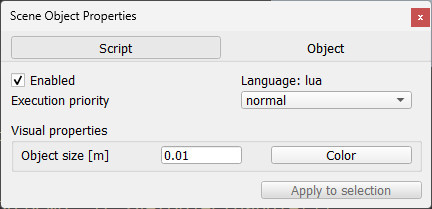
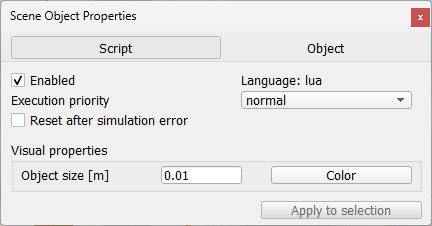
mujoco V3.2.6, change in simGetStackTableInfo

diff --git a/en/simMujoco.htm b/en/simMujoco.htm
@@ -26,14 +26,62 @@ td.section { margin: 0; padding: 0; }
 <tr><td id="info" class="section"><p class="warningBox">API functions that mainly serve to inject MuJoCo XML code</p></td></tr>
 
 <tr><td id="alphabetical" class="section"><pre class="apiList">
+<a href="?#simMujoco.addFlexcomp">simMujoco.addFlexcomp</a>
 <a href="?#simMujoco.composite">simMujoco.composite</a>
 <a href="?#simMujoco.getCompositeInfo">simMujoco.getCompositeInfo</a>
-<a href="?#simMujoco.injectXML">simMujoco.injectXML</a>
-<a href="?#simMujoco.removeXML">simMujoco.removeXML</a>
+<a href="?#simMujoco.getFlexcompInfo">simMujoco.getFlexcompInfo</a>
+<a href="?#simMujoco.geInfo">simMujoco.getInfo</a>
+<a href="?#simMujoco.addInjection">simMujoco.addInjection</a>
+<a href="?#simMujoco.removeInjection">simMujoco.removeInjection</a>
 </pre></td></tr>
 
 
 <tr><td id="commands" class="section">
+
+<p class="subsectionBar">
+<a name="simMujoco.addFlexcomp" id="simMujoco.addFlexcomp"></a>simMujoco.addFlexcomp</p>
+<table class="apiTable">
+<tr class="apiTableTr">
+<td class="apiTableLeftDescr">Description</td>
+<td class="apiTableRightDescr">Adds or injects a flexcomp to the MuJoCo world</td>
+</tr>
+<tr class="apiTableTr">
+<td class="apiTableLeftLSyn">Lua synopsis</td>
+<td class="apiTableRightLSyn">int injectionId=simMujoco.addFlexcomp(map info)</td>
+</tr>
+<tr class="apiTableTr">
+<td class="apiTableLeftLParam">Lua arguments</td>
+<td class="apiTableRightLParam">
+<div><strong>info</strong>: an information field that contains:</div>
+<div class=tab><strong>element</strong>: the name of the XML element where the flexcomp XML code should be injected. Can be empty if shapeHandle is not empty</div>
+<div class=tab><strong>shapeHandle</strong>: the handle of the shape where the flexcomp XML code should be injected. Can be empty if element is not empty</div>
+<div class=tab><strong>name</strong>: the flexcomp name element. Make sure the name is unique, and possibly derived from the related shape</div>
+<div class=tab><strong>type</strong>: the flexcomp type element. Only grid is currently supported</div>
+<div class=tab><strong>count</strong>: the flexcomp count element</div>
+<div class=tab><strong>spacing</strong>: the flexcomp spacing element</div>
+<div class=tab><strong>radius</strong>: the flexcomp radius element</div>
+<div class=tab><strong>mass</strong>: the flexcomp mass element</div>
+<div class=tab><strong>pose</strong>: the flexcomp pose element</div>
+<div class=tab><strong>pin</strong>: the flexcomp pin element (array of indices)</div>
+<div class=tab><strong>extraFlexcompXml</strong>: additional xml code to be added to the flexcomp element (as attribute)</div>
+<div class=tab><strong>extraXml</strong>: additional xml code to be added as a flexcomp element node</div>
+<div class=tab><strong>callback</strong>: a callback function that is called when the MuJoCo world gets regenerated. This allows to adjust the flexcomp on-the-fly</div>
+</td>
+</tr>
+<tr class="apiTableTr">
+<td class="apiTableLeftLRet">Lua return values</td>
+<td class="apiTableRightLRet"><div><strong>injectionId</strong>: the id of the injection</div></td>
+</tr>
+
+<tr class="apiTableTr">
+<td class="apiTableLeftPSyn">Python synopsis</td>
+<td class="apiTableRightPSyn">int injectionId=simMujoco.addFlexcomp(dict info)</td>
+</tr>
+</table>
+<br>
+
+
+
 <p class="subsectionBar">
 <a name="simMujoco.composite" id="simMujoco.composite"></a>simMujoco.composite</p>
 <table class="apiTable">
@@ -50,10 +98,10 @@ td.section { margin: 0; padding: 0; }
 <td class="apiTableRightLParam">
 <div><strong>xml</strong>: the xml code corresponding to a composite object</div>
 <div><strong>info</strong>: additional information about the composite:</div>
-<div class=tab><strong>element</strong>: the name of the XML element where the composite XML should be injected. Can be empty if shapeHandle is not empty</div>
-<div class=tab><strong>shapeHandle</strong>: the handle of the shape where the composite XML should be injected. Can be empty if element is not empty</div>
-<div class=tab><strong>prefix</strong>: the composite prefix string. Make sure the prefix is unique, and possible derived from the related shape</div>
-<div class=tab><strong>type</strong>: the composite type: grid, rope, loop, cloth, box, cylinder or ellipsoid</div>
+<div class=tab><strong>element</strong>: the name of the XML element where the composite XML code should be injected. Can be empty if shapeHandle is not empty</div>
+<div class=tab><strong>shapeHandle</strong>: the handle of the shape where the composite XML code should be injected. Can be empty if element is not empty</div>
+<div class=tab><strong>prefix</strong>: the composite prefix string. Make sure the prefix is unique, and possibly derived from the related shape</div>
+<div class=tab><strong>type</strong>: the composite type. In newest Mujoco version only grid, and cable are supported types</div>
 <div class=tab><strong>count</strong>: the size of the composite</div>
 <div class=tab><strong>respondableMask</strong>: the composite respondable mask</div>
 <div class=tab><strong>grow</strong>: the amount the composite nodes should grow for visuals</div>
@@ -71,6 +119,9 @@ td.section { margin: 0; padding: 0; }
 </tr>
 </table>
 <br>
+
+
+
 
 <p class="subsectionBar">
 <a name="simMujoco.getCompositeInfo" id="simMujoco.getCompositeInfo"></a>simMujoco.getCompositeInfo</p>
@@ -108,24 +159,96 @@ td.section { margin: 0; padding: 0; }
 </table>
 <br>
 
+
+
 <p class="subsectionBar">
-<a name="simMujoco.injectXML" id="simMujoco.injectXML"></a>simMujoco.injectXML</p>
+<a name="simMujoco.getCompositeInfo" id="simMujoco.getCompositeInfo"></a>simMujoco.getFlexcompInfo</p>
 <table class="apiTable">
 <tr class="apiTableTr">
 <td class="apiTableLeftDescr">Description</td>
-<td class="apiTableRightDescr">Adds or injects XML data into a MuJoCo world</td>
+<td class="apiTableRightDescr">Retrieves data about a flexcomp</td>
 </tr>
 <tr class="apiTableTr">
 <td class="apiTableLeftLSyn">Lua synopsis</td>
-<td class="apiTableRightLSyn">int injectionId=simMujoco.injectXML(string xml,string element/int shapeHandle,map info=nil)</td>
+<td class="apiTableRightLSyn">map info=simMujoco.getFlexcompInfo(int injectionId,int what)</td>
 </tr>
 <tr class="apiTableTr">
 <td class="apiTableLeftLParam">Lua arguments</td>
 <td class="apiTableRightLParam">
-<div><strong>xml</strong>: the xml code to inject</div>
-<div><strong>element/shapeHandle</strong>: the name of the XML element or the handle of the shape where the XML code should be injected</div>
-<div><strong>info</strong>: additional information about the XML code:</div>
-<div class=tab><strong>callback</strong>: a callback function that is called when the MuJoCo world gets regenerated. This allows to adjust the XML code on-the-fly</div>
+<div><strong>injectionId</strong>: the injection ID returned by simMujoco.addFlexcomp</div>
+<div><strong>what</strong>: the type of requested data:</div>
+<div class=tab><strong>0</strong>: the positions of the flexcomp nodes</div>
+<div class=tab><strong>1</strong>: the triangles to render the flexcomp</div>
+</td>
+</tr>
+<tr class="apiTableTr">
+<td class="apiTableLeftLRet">Lua return values</td>
+<td class="apiTableRightLRet">
+<div><strong>info</strong>: the requested data</div>
+</td>
+</tr>
+
+<tr class="apiTableTr">
+<td class="apiTableLeftPSyn">Python synopsis</td>
+<td class="apiTableRightPSyn">dict info=simMujoco.getCompositeInfo(int injectionId,int what)</td>
+</tr>
+</table>
+<br>
+
+
+
+<p class="subsectionBar">
+<a name="simMujoco.getInfo" id="simMujoco.getInfo"></a>simMujoco.getInfo</p>
+<table class="apiTable">
+<tr class="apiTableTr">
+<td class="apiTableLeftDescr">Description</td>
+<td class="apiTableRightDescr">Retrieves general information</td>
+</tr>
+<tr class="apiTableTr">
+<td class="apiTableLeftLSyn">Lua synopsis</td>
+<td class="apiTableRightLSyn">string info=simMujoco.getInfo(string what)</td>
+</tr>
+<tr class="apiTableTr">
+<td class="apiTableLeftLParam">Lua arguments</td>
+<td class="apiTableRightLParam">
+<div><strong>what</strong>: the information type. Currently only 'nameAndIds' is supported</div>
+</td>
+</tr>
+<tr class="apiTableTr">
+<td class="apiTableLeftLRet">Lua return values</td>
+<td class="apiTableRightLRet">
+<div><strong>info</strong>: the requested information</div>
+</td>
+</tr>
+
+<tr class="apiTableTr">
+<td class="apiTableLeftPSyn">Python synopsis</td>
+<td class="apiTableRightPSyn">string info=simMujoco.getInfo(string what)</td>
+</tr>
+</table>
+<br>
+
+
+
+<p class="subsectionBar">
+<a name="simMujoco.addInjection" id="simMujoco.addInjection"></a><a name="simMujoco.injectXML" id="simMujoco.injectXML"></a>simMujoco.addInjection</p>
+<table class="apiTable">
+<tr class="apiTableTr">
+<td class="apiTableLeftDescr">Description</td>
+<td class="apiTableRightDescr">Adds or injects XML code into a MuJoCo world</td>
+</tr>
+<tr class="apiTableTr">
+<td class="apiTableLeftLSyn">Lua synopsis</td>
+<td class="apiTableRightLSyn">int injectionId=simMujoco.addInjection(map info)</td>
+</tr>
+<tr class="apiTableTr">
+<td class="apiTableLeftLParam">Lua arguments</td>
+<td class="apiTableRightLParam">
+<div><strong>info</strong>: information field containing:</div>
+<div class=tab><strong>shapeHandle</strong>: the handle of the shape where the XML code should be injected. Can be empty if element is not empty</div>
+<div class=tab><strong>element</strong>: the name of the XML element where the XML code should be injected. Can be empty if shapeHandle is not empty</div>
+<div class=tab><strong>xml</strong>: the XML code to inject</div>
+<div class=tab><strong>callback</strong>: a callback function that is called when the MuJoCo world gets regenerated. This allows to adjust the xml code on-the-fly, if needed</div>
 </td>
 </tr>
 <tr class="apiTableTr">
@@ -137,27 +260,27 @@ td.section { margin: 0; padding: 0; }
 
 <tr class="apiTableTr">
 <td class="apiTableLeftPSyn">Python synopsis</td>
-<td class="apiTableRightPSyn">int injectionId=simMujoco.injectXML(string xml,string element/int shapeHandle,dict info=None)</td>
+<td class="apiTableRightPSyn">int injectionId=simMujoco.addInjection(dict info)</td>
 </tr>
 
 </table>
 <br>
 
 <p class="subsectionBar">
-<a name="simMujoco.removeXML" id="simMujoco.removeXML"></a>simMujoco.removeXML</p>
+<a name="simMujoco.removeInjection" id="simMujoco.removeInjection"></a><a name="simMujoco.removeXML" id="simMujoco.removeXML"></a>simMujoco.removeInjection</p>
 <table class="apiTable">
 <tr class="apiTableTr">
 <td class="apiTableLeftDescr">Description</td>
-<td class="apiTableRightDescr">Removes XML data from the MuJoCo world</td>
+<td class="apiTableRightDescr">Removes XML code from the MuJoCo world</td>
 </tr>
 <tr class="apiTableTr">
 <td class="apiTableLeftLSyn">Lua synopsis</td>
-<td class="apiTableRightLSyn">simMujoco.removeXML(int injectionId)</td>
+<td class="apiTableRightLSyn">simMujoco.removeInjection(int injectionId)</td>
 </tr>
 <tr class="apiTableTr">
 <td class="apiTableLeftLParam">Lua arguments</td>
 <td class="apiTableRightLParam">
-<div><strong>injectionId</strong>: the injection ID returned by simMujoco.composite or simMujoco.injectXML</div>
+<div><strong>injectionId</strong>: the injection ID returned by simMujoco.addFlexcomp, simMujoco.composite, or simMujoco.addInjection</div>
 </td>
 </tr>
 <tr class="apiTableTr">
@@ -168,7 +291,7 @@ td.section { margin: 0; padding: 0; }
 
 <tr class="apiTableTr">
 <td class="apiTableLeftPSyn">Python synopsis</td>
-<td class="apiTableRightPSyn">simMujoco.removeXML(int injectionId)</td>
+<td class="apiTableRightPSyn">simMujoco.removeInjection(int injectionId)</td>
 </tr>
 </tr>
 </table>

diff --git a/en/acknowledgments.htm b/en/acknowledgments.htm
@@ -146,7 +146,7 @@ Eric Rohmer who is a thorough CoppeliaSim tester and an &quot;idea machine&quot;
 <li>Marcin Konarski, Salvatore Sanfilippo, Pieter Noordhuis for the <a href="https://github.com/AmokHuginnsson/replxx/" target="_blank">Replxx</a> library, used in the headless version of the <a href="commandLine.htm#commander">commander plugin</a>. <a href="#replxx">See the license</a>.</li>
 <li>Benjamin Navarro, for his code in the legacy remote API, which enables shared memory communication instead of socket communication.</li>
 
-<li>Following people for noticing bugs, reporting problems, suggesting solutions or new ideas, providing patches, code improvements, or simply helping out: Guillermo Presti, Matthias Fueller, Paul Fudal, Matthieu Lapeyre, Alberto Fanjul, Laurens Philippo, Vadim Liventsev, Kirill Makukhin, Patrick Bouffard, Pouya Mohammadi, Luca Marchionni, Barrett Ames, Arnaud Leleve, Geerten Doornenbal, Nikolaus Wittenstein, Ayberk Ozgur, Qi Wang, Giordano, Karl Robillard, Brian Yeomans, Kiyoshi Irie, Ulrich Schwesinger, Peter Mačička, Inkyu Sa, David Butterworth, Marco Cognetti, Xinyu Zhang, Jaqueline Gallardo, Serkan ÇİÇEK, Taehoon Koo, He Tao, Yusuke Ishizawa, Billy Newman, Rüdiger Dehmel, Roberto Marino, Renaud Detry, Roband, Hendrik Wiese, Matthias Schindler, George Moustris, Marco Bellaccini, Klaus Raizer, Paulo Gurgel, Stéphane Magnenat, Philipp Krüsi, Pascal Gohl, Gianpaolo Gonnelli, Felix Herrmann, Edgar Virga, Josep Tormo Costa, Gaël Ecorchard, Massimo Cefalo, Robert Lang, Marc Durvaux, Alexander Rietzler, Matt Derry, Arne Hitzmann, Sergi Foix, Daniel Morberg, Andreas Kuhner, Gerold Huber, Danilo Vasconcellos Vargas, Spencer Krause, Daniel Kuhner, Filip Jares, Luigi Ferri, Michaela Richter, Daniel Lechner, Sven Knüppel, Steve Nguyen, Jonas Sperling, Roberto Guzman, James Besancon, Andrew Vardy, Bipeen Acharya, Fred Gisa, Simon D. Levy, Leopoldo Armesto, Rodrigo Moreno Garcia, Hanna Kurniawati, Dimitri Klimenko, Joshua Mun Song,  Vinay Yadav, Thomas Estier, Matthias Imle, Rosé Rosado, Soner Ulun, Reza Mahjourian, Ben Allan, Riccardo Spica,  Giovanni Claudio, Guenter Schreiber, Antoine Rennuit, Francois Conti, Sébastien Granges, Patrick Helmer, Eva Alves Costa, Lucian Cucu, Sigurd Villumsen, Andrea Censi, Pierre Rouanet, Leander Hille, Christoph Hügle, William Harrison, Scott Drew Pendleton, Jan Dentler, Raimund Krenmüller, Anuraj Rajendraprakash, Ilya Nemihin, Ángel Luis Jiménez García, Leander Hille, Pierre Rouanet, Kenichi Hara, Ilya Nemihin, Federico Ferri, Michael Michalik, Martin Pecka, Nicola Piccinelli, Kshitij Tiwari, Victor Gomez, Parker Owan, Yuki Suga, Muhammad Umer Huzaifa, Marshall Floyd, Augusto Gandia, Pierre Jacquot, Gurvan Le Bleis, Andreu Vidal, Nicola Di Pol, Tobias Groll, Wu Xiaojun, Karol Mocniak, Ana Lucia, Ricardo Azambuja, Anto Ronson, Graeme Neff Wilson, Minson Lee, Tiago Malheiro, Andrew Hundt, Ahmed Yacine, Matthias Ploner, Indranil Sur, Sung Kyun Kim, Rik Timmers, Matthew Veres, Korolyov Alexei, Daniel Angelov, Mohammed Talha, Bartolomeo Della Corte, Scott Hissam, Mark Fink, Hao Wang, Matias Nitsche, Ndivhuwo Makondo, Yu Zhang, DeKita G. Moon, Paul Santiago Tumbaco Casa, Tobias Benz, Rodrigo Moreno Garcia, Arjun Narayanan, Sven Schweigler, Nicola Battilani, Mark Edmonds,  Benno Timmermann, Cándido Otero Moreira, Justin Yim, Allen Zhu, Leo Koppel, Ravi Prakash Joshi, Sina Radmard, Sai Vemprala, Waleed El-Badry, James Barger, Gonzalo Casas, Metehan Doyran, Arif Rahman, Jason Cachrane, Steffen Hemer, Fangyi Zhang, Filipe Rocha, virgile Daugé, Riccardo Spica, Florian Golemo, Kevin M. Lynch, Frank C. Park, Jacob Huesman, Matthew Veres, Cándido Otero, Leon Masopust, Michael Tong, Zhengxing Yang, Thomas Gurriet, Lenka Pitonakova, Hervé Frezza-Buet, Justus Rijke, Stefan Müller, Julien Lechalupe, Tristan Gahler, Robert Peck, William Jones, Benjamin Erdemann, Boris Bogaerts, Ulrich Viereck, Amdrei Florea, Catalin Buiu, Joachim Haensel, Julian Mayer, Jacob Smith, Mohsen Moradi Dalvand, Simon Birrell, Mathias Thor, Jedrzej Orbik, Liu Dong, Mark Hartenstein, Alexander Oliva, Claudio Gaz, Simon Birrell, Sahil Sharma, Adrian Schoisengeier, Rémi Lux, Kilian Freitag, Maël Hörz, Jakub Turaj, Rieky Barady, Jian Ye, Jaime Boal, Pável Axel Mc Campos Peña, Patrick Gruener, Thomas Wilmotte, Lorenzo Romanini, Johan Relefors, Pablo Bustos, Sonny Tarbouriech, Aleksander Sil, Arturs Paugurs, Wei Wei, David Page, Leopoldo Armesto, Ayush Patel, Cameron Kabacinski, Francisco Marin, Kevin Thomas, Nikita Aigner, Charles Han, Shai Levy, Bobovsky Zdenko, Salvatore Sessa, Jakob Ambsdorf, Hayato Amaike, Nathan Kocherhans, Alex Wuqi Zhang, René Simon, Yongdong Wang, Andrés Faíña, Davide Scorza, Jovan Sumarac, Alexander Oliva, Luigi Ascione, Rui Li, Patrick Grüner, Andrés Faíña, Michal Mareš, Kat Styles Wood, David Paulius, Pranav A. Bhounsule, Davide Scorza, Amirhossein Afkhami Ardekani, Roman Horshkov, Volker Kühn, Artem Shishkin, Andrey Voronkov, Vitalii Kudinov, Yong Jiang, Marco Frigerio, Elia Cereda, Keith Siilats, Pardeep Singh Panesar, Zichun Xu, Belal Elsayed, Clélie Demey, Fumio Ozaki, Christopher Blum, Javier Quintana, Alexis Hou, Sebastian Serna, Jian Qi, Vishwas Jain, Barca David, Sasha Koryakin, Louis Munier, Fatih Kocyigit, Clément Moulin-Frier, Markus Voelk, Fabio Massimo Proietti, Michael Leslie, Cheng Zhou, Ben Figg, Caio Conti Guidote Ribeiro, Daniel Schiller, Juan José Quiroz Omaña, Matteo Nini, Philippe Juhel, Jeffrey W. Herrmann, Sinan Barut, Javier Lopez... We know we forgot many many people, also significant ones... please let us know!</li>
+<li>Following people for noticing bugs, reporting problems, suggesting solutions or new ideas, providing patches, code improvements, or simply helping out: Guillermo Presti, Matthias Fueller, Paul Fudal, Matthieu Lapeyre, Alberto Fanjul, Laurens Philippo, Vadim Liventsev, Kirill Makukhin, Patrick Bouffard, Pouya Mohammadi, Luca Marchionni, Barrett Ames, Arnaud Leleve, Geerten Doornenbal, Nikolaus Wittenstein, Ayberk Ozgur, Qi Wang, Giordano, Karl Robillard, Brian Yeomans, Kiyoshi Irie, Ulrich Schwesinger, Peter Mačička, Inkyu Sa, David Butterworth, Marco Cognetti, Xinyu Zhang, Jaqueline Gallardo, Serkan ÇİÇEK, Taehoon Koo, He Tao, Yusuke Ishizawa, Billy Newman, Rüdiger Dehmel, Roberto Marino, Renaud Detry, Roband, Hendrik Wiese, Matthias Schindler, George Moustris, Marco Bellaccini, Klaus Raizer, Paulo Gurgel, Stéphane Magnenat, Philipp Krüsi, Pascal Gohl, Gianpaolo Gonnelli, Felix Herrmann, Edgar Virga, Josep Tormo Costa, Gaël Ecorchard, Massimo Cefalo, Robert Lang, Marc Durvaux, Alexander Rietzler, Matt Derry, Arne Hitzmann, Sergi Foix, Daniel Morberg, Andreas Kuhner, Gerold Huber, Danilo Vasconcellos Vargas, Spencer Krause, Daniel Kuhner, Filip Jares, Luigi Ferri, Michaela Richter, Daniel Lechner, Sven Knüppel, Steve Nguyen, Jonas Sperling, Roberto Guzman, James Besancon, Andrew Vardy, Bipeen Acharya, Fred Gisa, Simon D. Levy, Leopoldo Armesto, Rodrigo Moreno Garcia, Hanna Kurniawati, Dimitri Klimenko, Joshua Mun Song,  Vinay Yadav, Thomas Estier, Matthias Imle, Rosé Rosado, Soner Ulun, Reza Mahjourian, Ben Allan, Riccardo Spica,  Giovanni Claudio, Guenter Schreiber, Antoine Rennuit, Francois Conti, Sébastien Granges, Patrick Helmer, Eva Alves Costa, Lucian Cucu, Sigurd Villumsen, Andrea Censi, Pierre Rouanet, Leander Hille, Christoph Hügle, William Harrison, Scott Drew Pendleton, Jan Dentler, Raimund Krenmüller, Anuraj Rajendraprakash, Ilya Nemihin, Ángel Luis Jiménez García, Leander Hille, Pierre Rouanet, Kenichi Hara, Ilya Nemihin, Federico Ferri, Michael Michalik, Martin Pecka, Nicola Piccinelli, Kshitij Tiwari, Victor Gomez, Parker Owan, Yuki Suga, Muhammad Umer Huzaifa, Marshall Floyd, Augusto Gandia, Pierre Jacquot, Gurvan Le Bleis, Andreu Vidal, Nicola Di Pol, Tobias Groll, Wu Xiaojun, Karol Mocniak, Ana Lucia, Ricardo Azambuja, Anto Ronson, Graeme Neff Wilson, Minson Lee, Tiago Malheiro, Andrew Hundt, Ahmed Yacine, Matthias Ploner, Indranil Sur, Sung Kyun Kim, Rik Timmers, Matthew Veres, Korolyov Alexei, Daniel Angelov, Mohammed Talha, Bartolomeo Della Corte, Scott Hissam, Mark Fink, Hao Wang, Matias Nitsche, Ndivhuwo Makondo, Yu Zhang, DeKita G. Moon, Paul Santiago Tumbaco Casa, Tobias Benz, Rodrigo Moreno Garcia, Arjun Narayanan, Sven Schweigler, Nicola Battilani, Mark Edmonds,  Benno Timmermann, Cándido Otero Moreira, Justin Yim, Allen Zhu, Leo Koppel, Ravi Prakash Joshi, Sina Radmard, Sai Vemprala, Waleed El-Badry, James Barger, Gonzalo Casas, Metehan Doyran, Arif Rahman, Jason Cachrane, Steffen Hemer, Fangyi Zhang, Filipe Rocha, virgile Daugé, Riccardo Spica, Florian Golemo, Kevin M. Lynch, Frank C. Park, Jacob Huesman, Matthew Veres, Cándido Otero, Leon Masopust, Michael Tong, Zhengxing Yang, Thomas Gurriet, Lenka Pitonakova, Hervé Frezza-Buet, Justus Rijke, Stefan Müller, Julien Lechalupe, Tristan Gahler, Robert Peck, William Jones, Benjamin Erdemann, Boris Bogaerts, Ulrich Viereck, Amdrei Florea, Catalin Buiu, Joachim Haensel, Julian Mayer, Jacob Smith, Mohsen Moradi Dalvand, Simon Birrell, Mathias Thor, Jedrzej Orbik, Liu Dong, Mark Hartenstein, Alexander Oliva, Claudio Gaz, Simon Birrell, Sahil Sharma, Adrian Schoisengeier, Rémi Lux, Kilian Freitag, Maël Hörz, Jakub Turaj, Rieky Barady, Jian Ye, Jaime Boal, Pável Axel Mc Campos Peña, Patrick Gruener, Thomas Wilmotte, Lorenzo Romanini, Johan Relefors, Pablo Bustos, Sonny Tarbouriech, Aleksander Sil, Arturs Paugurs, Wei Wei, David Page, Leopoldo Armesto, Ayush Patel, Cameron Kabacinski, Francisco Marin, Kevin Thomas, Nikita Aigner, Charles Han, Shai Levy, Bobovsky Zdenko, Salvatore Sessa, Jakob Ambsdorf, Hayato Amaike, Nathan Kocherhans, Alex Wuqi Zhang, René Simon, Yongdong Wang, Andrés Faíña, Davide Scorza, Jovan Sumarac, Alexander Oliva, Luigi Ascione, Rui Li, Patrick Grüner, Andrés Faíña, Michal Mareš, Kat Styles Wood, David Paulius, Pranav A. Bhounsule, Davide Scorza, Amirhossein Afkhami Ardekani, Roman Horshkov, Volker Kühn, Artem Shishkin, Andrey Voronkov, Vitalii Kudinov, Yong Jiang, Marco Frigerio, Elia Cereda, Keith Siilats, Pardeep Singh Panesar, Zichun Xu, Belal Elsayed, Clélie Demey, Fumio Ozaki, Christopher Blum, Javier Quintana, Alexis Hou, Sebastian Serna, Jian Qi, Vishwas Jain, Barca David, Sasha Koryakin, Louis Munier, Fatih Kocyigit, Clément Moulin-Frier, Markus Voelk, Fabio Massimo Proietti, Michael Leslie, Cheng Zhou, Ben Figg, Caio Conti Guidote Ribeiro, Daniel Schiller, Juan José Quiroz Omaña, Matteo Nini, Philippe Juhel, Jeffrey W. Herrmann, Sinan Barut, Javier Lopez, Jonatas Teixeira, github user MoonNarga, Congjun Ma... We know we forgot many many people, also significant ones... please let us know!</li>
 
 <p>
 I also wish to thank following people for the inspiration they provided in various fields through their publications, books or other means:

diff --git a/en/versionInfo.htm b/en/versionInfo.htm
@@ -44,7 +44,14 @@ Version history:
 <!-- -->
  
 <h2>
-<a name="coppeliaSim4.8.0" id="coppeliaSim4.8.0"></a>CoppeliaSim V4.8.0 (October 31st 2024)
+<a name="coppeliaSim4.9.0" id="coppeliaSim4.9.0"></a>CoppeliaSim V4.9.0 (not yet released)
+</h2>
+
+<li>Fixed several bugs. Thanks to Jonatas Teixeira, Juan José Quiroz Omaña, Cheng Zhou, Congjun Ma and github user MoonNarga for noticing them or helping to resolve them</li>
+<li>Upgraded to MuJoCo V3.2.6, delivering a significant 2-10x simulation speed boost with notably faster scene rebuilds. Introduced MuJoCo's <a href="propertiesReference.htm#mujoco.adhesion">adhesion functionality</a> and the <a href="simMujoco.htm#simMujoco.addFlexcomp">simMujoco.addFlexcomp()</a> function for <em>grid</em>-type <em>flexcomp</em> implementation, while deprecating previous <em>composite</em> types (<em>rope</em>, <em>cube</em>, <em>cylinder</em>, and <em>ellipsoid</em>) due to uncertain future support from MuJoCo. Simulation parameters were refined by setting the default <em>armature</em> value to 2 and switching to the new <em>implicitfast</em> integrator as the default. A new demo scene illustrates MuJoCo specific functionality: <em>scenes/mujoco/demoScene.ttt</em></li>
+<li><a href="regularApi/simGetStackTableInfo_cpp.htm">simGetStackTableInfo</a>(stackHandle, 0) now also returns a value >= 0 when the item at the top of the stack is a string or a <a href="buffers.htm">buffer</a>, which might require code adjustments in some cases. In a similar way, <a href="regularApi/simGetStackUInt8Table_cpp.htm">simGetStackUInt8Table</a>, <a href="regularApi/simGetStackInt64Table_cpp.htm">simGetStackInt32Table, simGetStackInt64Table</a>, <a href="regularApi/simGetStackFloatTable_cpp.htm">simGetStackFloatTable</a>, <a href="regularApi/simGetStackDoubleTable_cpp.htm">simGetStackDoubleTable</a> and <a href="regularApi/simUnfoldStackTable_cpp.htm">simUnfoldStackTable</a> now can also operate on a string or a buffer. It is recommended to always first verify the type of a stack item with <a href="regularApi/simGetStackItemType_cpp.htm">simGetStackItemType</a>, before using <a href="regularApi/simGetStackTableInfo_cpp.htm">simGetStackTableInfo</a> or <a href="regularApi/simGetStackStringType_cpp.htm">simGetStackStringType</a></li>
+<h2>
+  <a name="coppeliaSim4.8.0" id="coppeliaSim4.8.0"></a>CoppeliaSim V4.8.0 (October 31st 2024)
 </h2>
 
 <p align=center><img src="images/propertyExplorerAndEventViewer.png"></p>

diff --git a/en/scriptPropertiesDialog.htm b/en/scriptPropertiesDialog.htm
@@ -38,6 +38,7 @@
 <li><strong>Enabled</strong>: the enable state of the script
 <li><strong>Language</strong>: the script language
 <li><strong>Execution priority</strong>: the execution priority relates only to same-type scripts, and only to scripts that are siblings in the scene hierarchy. More details can be found <a href="scriptExecution.htm">here</a>.
+<li><strong>Reset after simulation error</strong>: when enabled, a customization script that is in an error state will be reset at the end of a simulation.
 
 <li><strong>Object size</strong>: size of the 3D representation of the script object. This parameter has only a visual effect, and no functional meaning</li>
 
